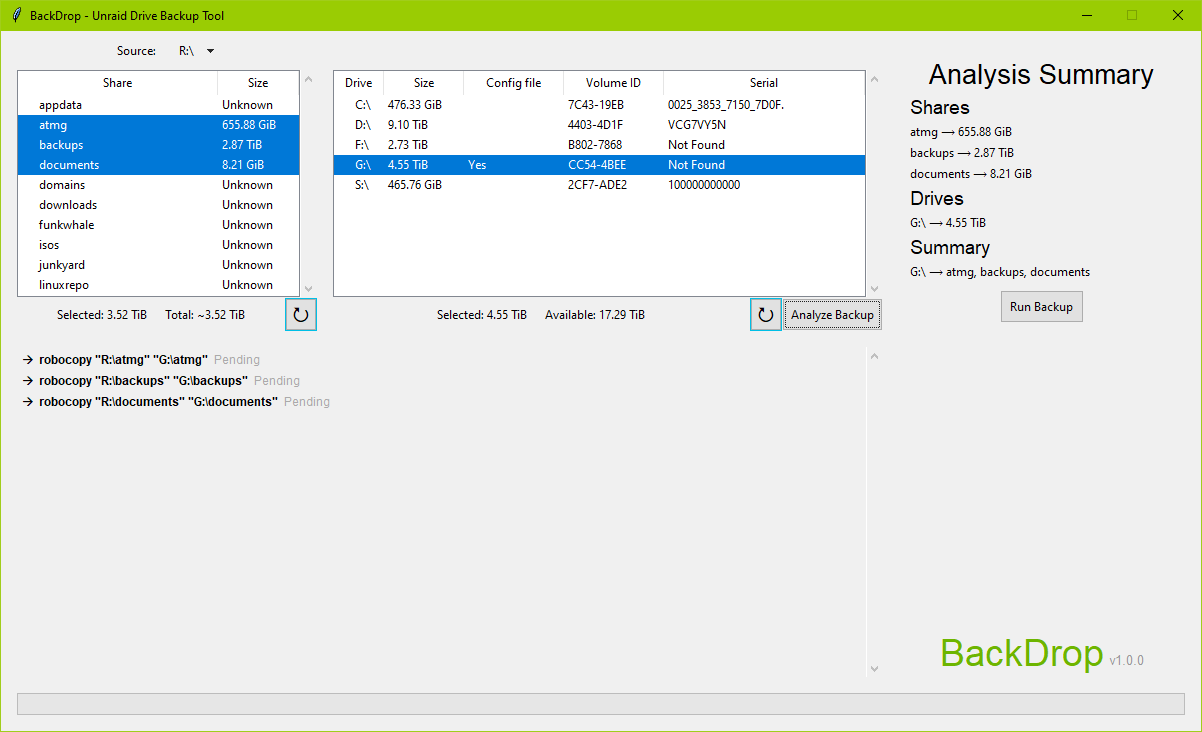
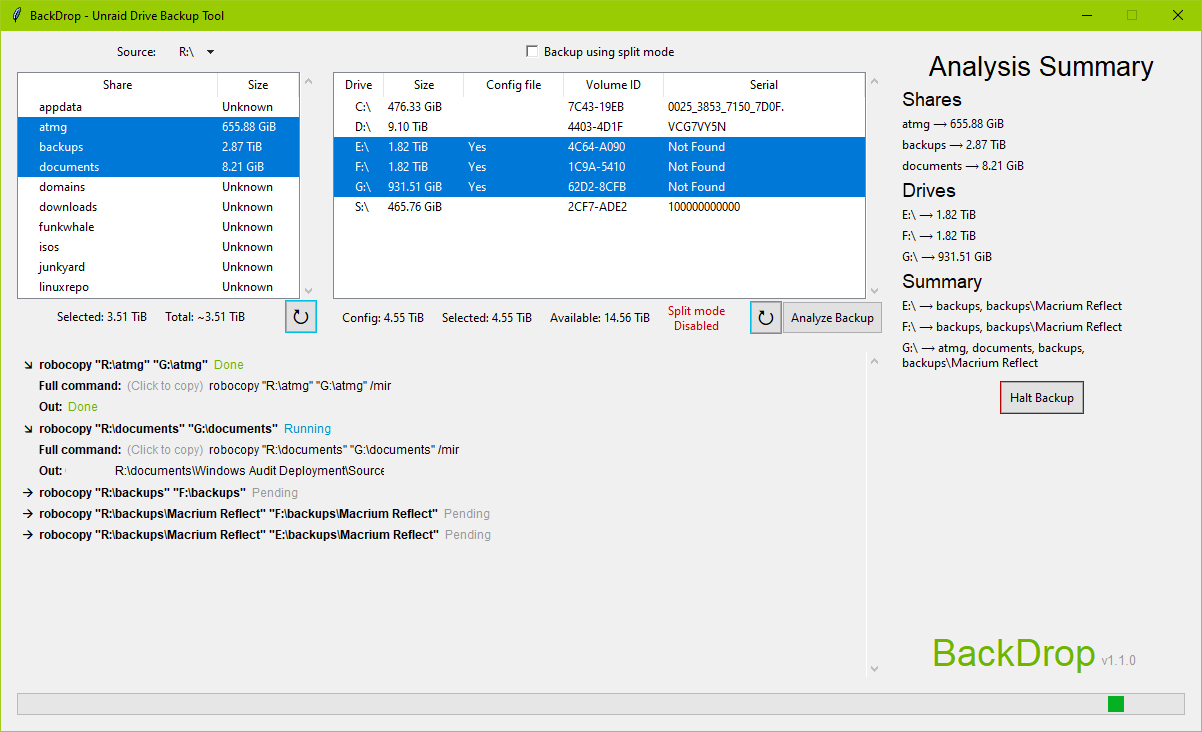
Updated to version 1.1.0

diff --git a/backdrop.py b/backdrop.py
@@ -14,7 +14,7 @@ import clipboard
 import time
 
 # Set meta info
-appVersion = '1.1.0-alpha.1'
+appVersion = '1.1.0'
 
 # TODO: Shares are copied to root of drives, so other directories with data are most likely left intact
 #     We may need to account for this, by checking for free space, and then adding the size of the existing share directories
@@ -447,9 +447,9 @@ def analyzeBackup(shares, drives):
 
             if drive in driveVidToLetterMap.keys():
                 commandList.extend([{
-                    'displayIndex': len(displayCommandList) - 1,
+                    'displayIndex': len(displayCommandList) - len(shares) + i,
                     'cmd': 'robocopy "%s" "%s" /mir' % (sourceDrive + share, humanDrive + share)
-                }] for share in shares)
+                } for i, share in enumerate(shares)])
 
     # For each share that needs splitting, split each one
     # For each resulting folder in the summary, get list of files

diff --git a/CHANGELOG.md b/CHANGELOG.md
@@ -1,6 +1,17 @@
 # Changelog
 All notable changes to this project will be documented in this file.
 
+## [1.1.0] - 2020-09-17
+### Fixed
+- Fixed refresh threads running when a refresh is already active
+- Fixed shares being calculated in multiple threads when Ctrl + clicking
+- Fixed drive selection breaking after loading a config from a selected drive
+- File size of the drive config directory is now subtracted from drive space during analysis
+
+### Changed
+- Added ThreadManager class
+- Added split mode backup option for backing up a subset of the drives in a config
+
 ## [1.0.1] - 2020-09-11
 ### Changed
 - Added proper branding
